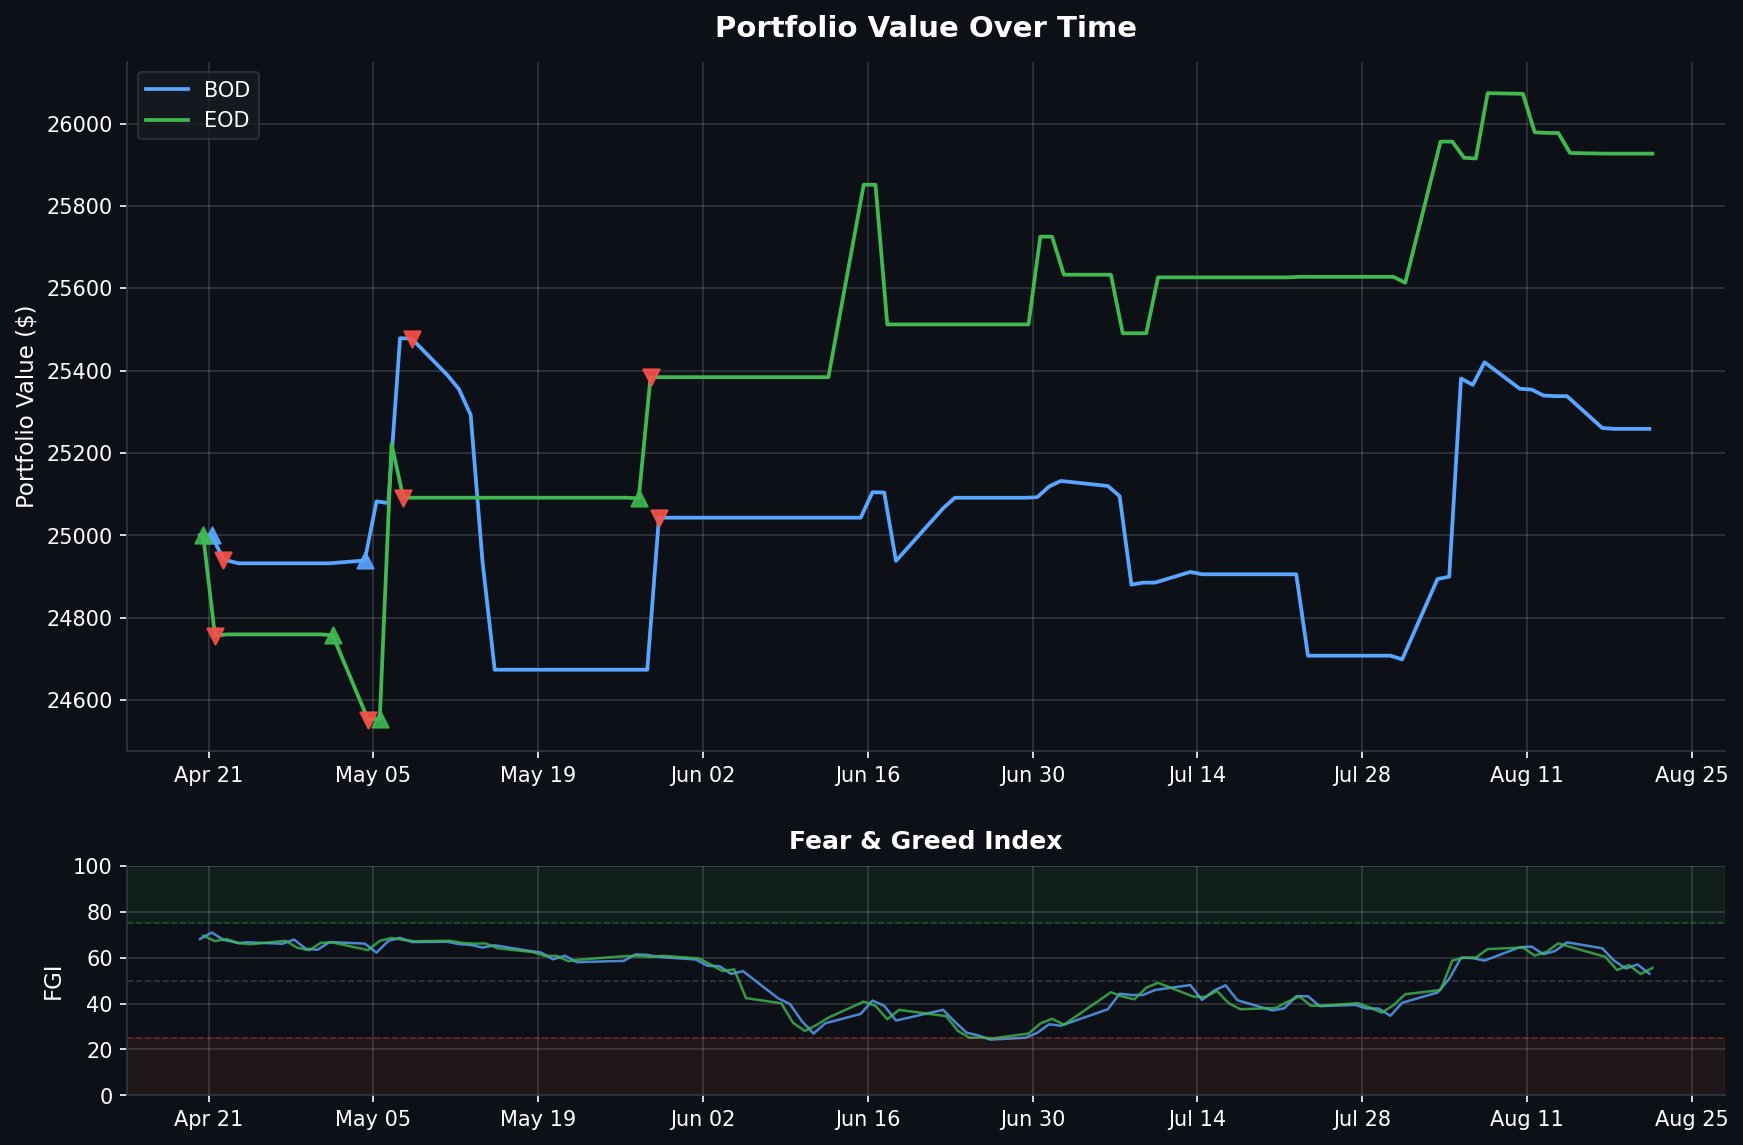
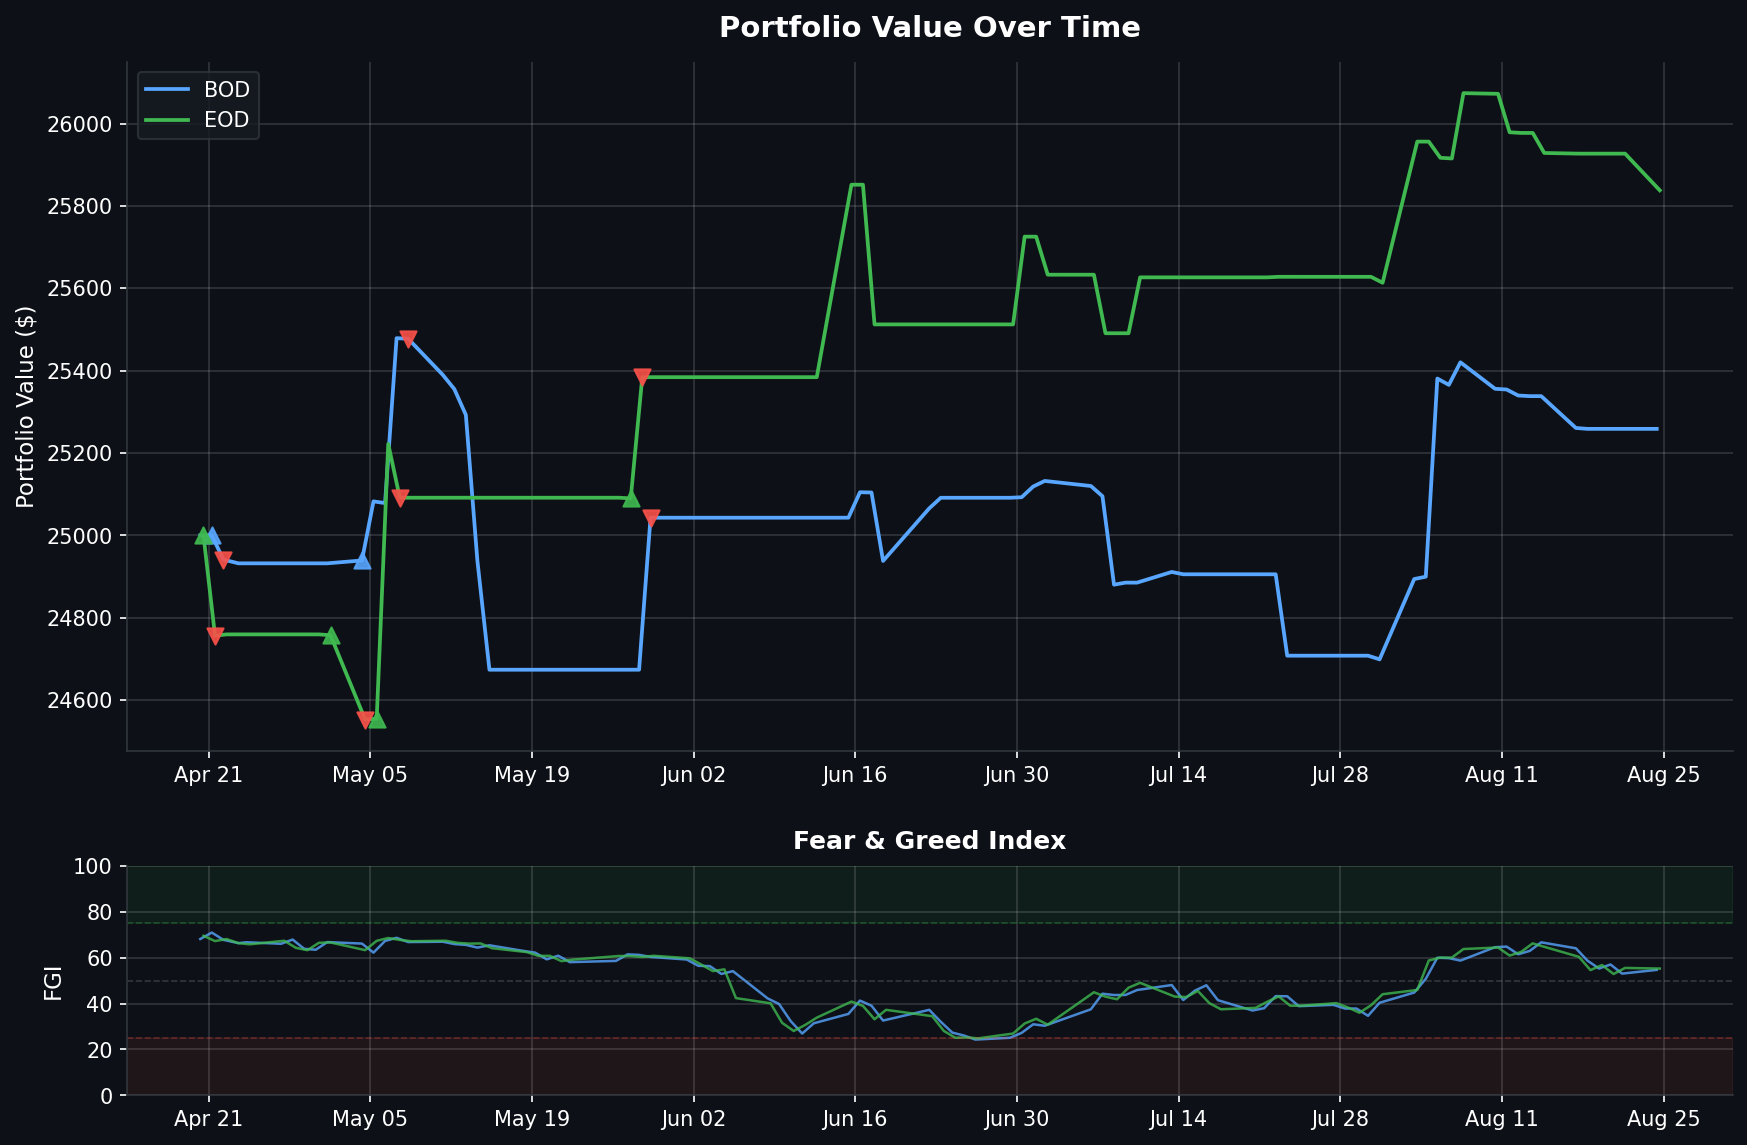
Daily data backup 2026-08-24

diff --git a/README.md b/README.md
@@ -1,6 +1,6 @@
 # Fear & Greed Index Trading Bot
 
-> Dashboard auto-updated daily at market close | Last update: **2026-08-21 13:30 PST**
+> Dashboard auto-updated daily at market close | Last update: **2026-08-24 13:30 PST**
 
 ![Portfolio Performance](assets/portfolio_chart.png)
 
@@ -12,12 +12,12 @@
 |--------|-------|
 | Portfolio Value | **$25,258.57** |
 | Buying Power | $101,034.28 |
-| Current FGI | 53.03 |
+| Current FGI | 54.66 |
 | Position | FLAT |
 | Total P&L | **$+995** |
 | Win Rate | 50% (1W / 1L) |
 | Total Round Trips | 2 |
-| Last Signal | NO_ACTION @ 2026-08-21 09:35 |
+| Last Signal | NO_ACTION @ 2026-08-24 09:35 |
 
 <details>
 <summary>Trade History (2 trades)</summary>
@@ -34,11 +34,11 @@
 
 | Time | Action | Price | FGI | Momentum | Velocity | Volatility | Reason |
 |------|--------|-------|-----|----------|----------|------------|--------|
+| 08-24 09:35 | NO_ACTION | $763.34 | 54.66 | -0.24 | -0.20 | 0.55 | Insufficient momentum/velocity for entry |
 | 08-21 09:35 | NO_ACTION | $764.81 | 53.03 | -2.07 | -1.89 | 0.55 | Insufficient momentum/velocity for entry |
 | 08-20 09:35 | NO_ACTION | $766.73 | 57.0 | 0.02 | -2.35 | 0.55 | Insufficient momentum/velocity for entry |
 | 08-19 09:35 | NO_ACTION | $770.03 | 55.26 | -4.08 | -3.80 | 0.55 | Insufficient momentum/velocity for entry |
 | 08-18 09:35 | NO_ACTION | $768.53 | 58.69 | -4.45 | -1.41 | 0.55 | Insufficient momentum/velocity for entry |
-| 08-17 09:35 | NO_ACTION | $775.69 | 64.06 | -0.48 | 0.87 | 0.55 | SELL incomplete - still holding 32 after 5 attempts |
 
 </details>
 
@@ -48,14 +48,14 @@
 
 | Metric | Value |
 |--------|-------|
-| Portfolio Value | **$25,926.95** |
-| Buying Power | $103,707.80 |
-| Current FGI | 55.51 |
+| Portfolio Value | **$25,837.95** |
+| Buying Power | $103,351.80 |
+| Current FGI | 55.23 |
 | Position | FLAT |
 | Total P&L | **$+302** |
 | Win Rate | 50% (2W / 2L) |
 | Total Round Trips | 4 |
-| Last Signal | NO_ACTION @ 2026-08-21 15:50 |
+| Last Signal | NO_ACTION @ 2026-08-24 15:52 |
 
 <details>
 <summary>Trade History (4 trades)</summary>
@@ -74,11 +74,11 @@
 
 | Time | Action | Price | FGI | Momentum | Velocity | Volatility | Reason |
 |------|--------|-------|-----|----------|----------|------------|--------|
+| 08-24 15:52 | NO_ACTION | $763.90 | 55.23 | 0.70 | -0.51 | 0.55 | SELL incomplete - still holding 33 after 5 attempts |
 | 08-21 15:50 | NO_ACTION | $766.56 | 55.51 | 0.46 | 0.31 | 0.55 | BUY did not fill after 3 attempts |
 | 08-20 15:50 | NO_ACTION | $763.25 | 52.86 | -1.87 | -2.49 | 0.55 | Insufficient momentum/velocity for entry |
 | 08-19 15:50 | NO_ACTION | $768.68 | 56.77 | -0.46 | -2.65 | 0.55 | Insufficient momentum/velocity for entry |
 | 08-18 15:50 | NO_ACTION | $767.90 | 54.57 | -5.30 | -3.88 | 0.55 | Insufficient momentum/velocity for entry |
-| 08-17 15:50 | NO_ACTION | $773.25 | 60.34 | -3.41 | -0.72 | 0.55 | Insufficient momentum/velocity for entry |
 
 </details>
 
